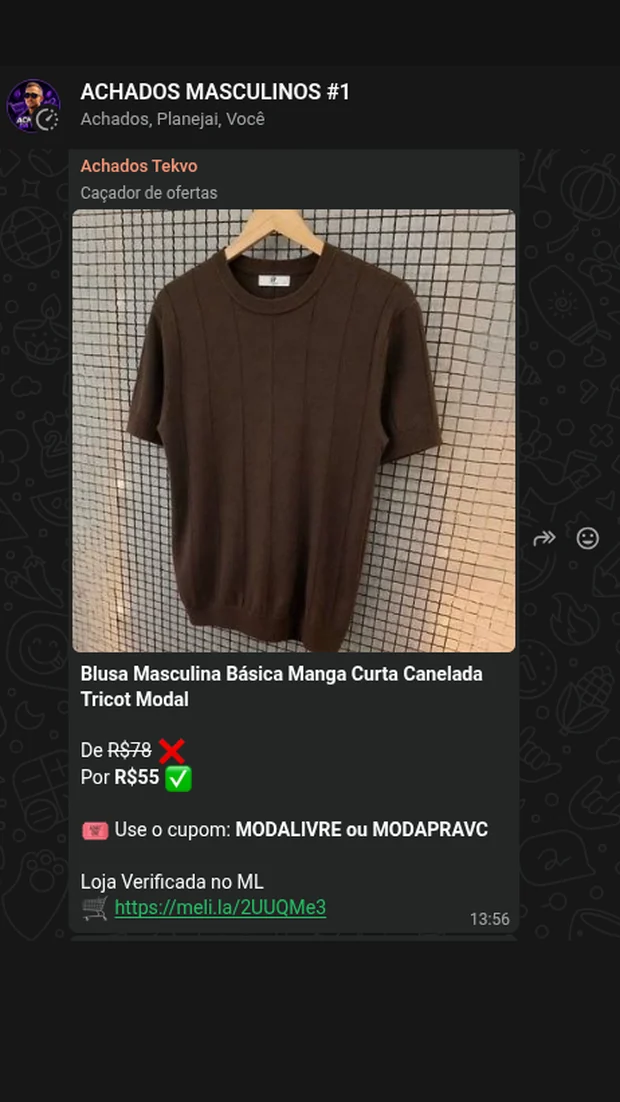
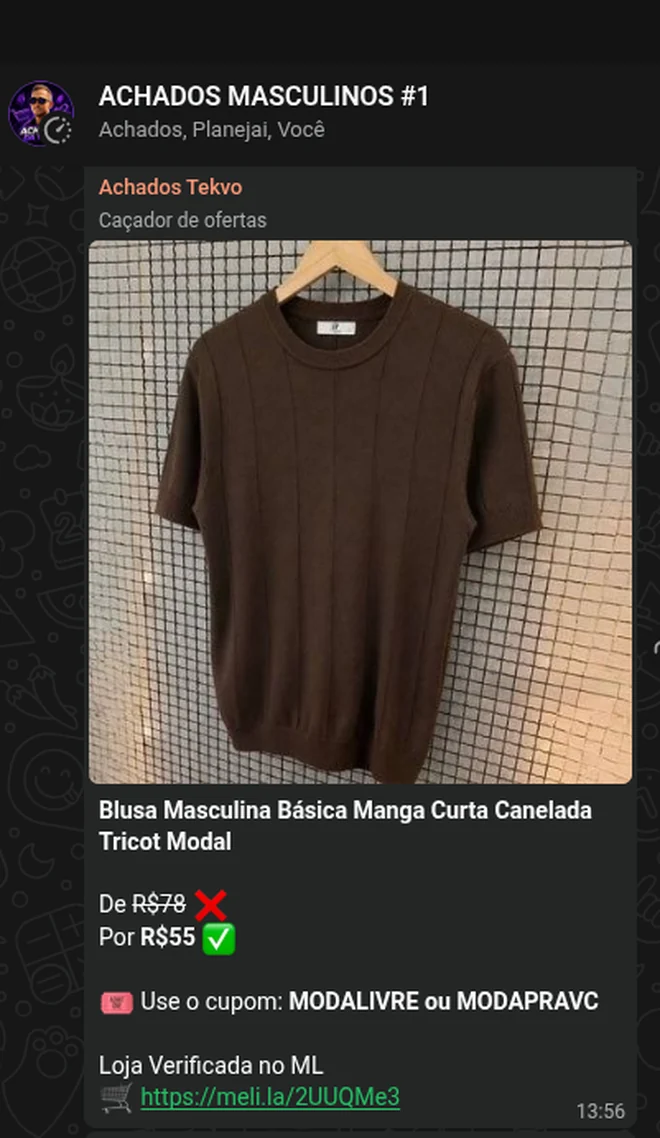
Reenquadra os prints para preencher a moldura
O print 1 aparecia com uma faixa grande de fundo vazio embaixo: ele é
mais largo que uma tela de celular, e eu vinha completando a altura com
a cor do chat para forçar 9:16.

Agora a moldura usa proporção 0.58, mais próxima dos prints, e o ajuste
é feito no lado curto de cada um:
- Prints largos (1 e 4): corta ~60px da direita, onde só havia papel de
  parede e os ícones de responder/reagir — a mensagem fica inteira
- Prints estreitos (2 e 3): alarga as laterais com a cor do chat

Resultado: a conversa ocupa a tela toda do celular, sem vazio. Prints
regerados a 660px e ilha posicionada em porcentagem, para acompanhar a
moldura em qualquer tamanho.

diff --git a/index.html b/index.html
@@ -80,16 +80,16 @@
 
       <div class="celulares">
         <figure class="celular">
-          <img src="assets/grupo-1.webp" alt="Print do grupo: kit com 3 bermudas de R$121 por R$75 com cupom" width="620" height="1102" loading="lazy">
+          <img src="assets/grupo-1.webp" alt="Print do grupo: kit com 3 bermudas de R$121 por R$75 com cupom" width="660" height="1138" loading="lazy">
         </figure>
         <figure class="celular">
-          <img src="assets/grupo-2.webp" alt="Print do grupo: tênis Kappa de R$229 por R$76 com cupom" width="620" height="1102" loading="lazy">
+          <img src="assets/grupo-2.webp" alt="Print do grupo: tênis Kappa de R$229 por R$76 com cupom" width="660" height="1138" loading="lazy">
         </figure>
         <figure class="celular">
-          <img src="assets/grupo-3.webp" alt="Print do grupo: sapato loafer masculino de R$179 por R$86 com cupom" width="620" height="1102" loading="lazy">
+          <img src="assets/grupo-3.webp" alt="Print do grupo: sapato loafer masculino de R$179 por R$86 com cupom" width="660" height="1138" loading="lazy">
         </figure>
         <figure class="celular">
-          <img src="assets/grupo-4.webp" alt="Print do grupo: blusa masculina tricot de R$78 por R$55 com cupom" width="620" height="1102" loading="lazy">
+          <img src="assets/grupo-4.webp" alt="Print do grupo: blusa masculina tricot de R$78 por R$55 com cupom" width="660" height="1138" loading="lazy">
         </figure>
       </div>
 

diff --git a/styles.css b/styles.css
@@ -249,15 +249,15 @@ h1 .excl { color: var(--branco); }
   box-shadow: 0 22px 48px -20px rgba(0, 0, 0, .95);
 }
 
-/* ilha do celular */
+/* ilha do celular, dentro da faixa de status do print */
 .celular::before {
   content: '';
   position: absolute;
-  top: 20px;
+  top: 2.1%;
   left: 50%;
   transform: translateX(-50%);
-  width: 26%;
-  height: 3.1%;
+  width: 25%;
+  height: 2.4%;
   border-radius: 999px;
   background: #05070A;
   z-index: 2;
